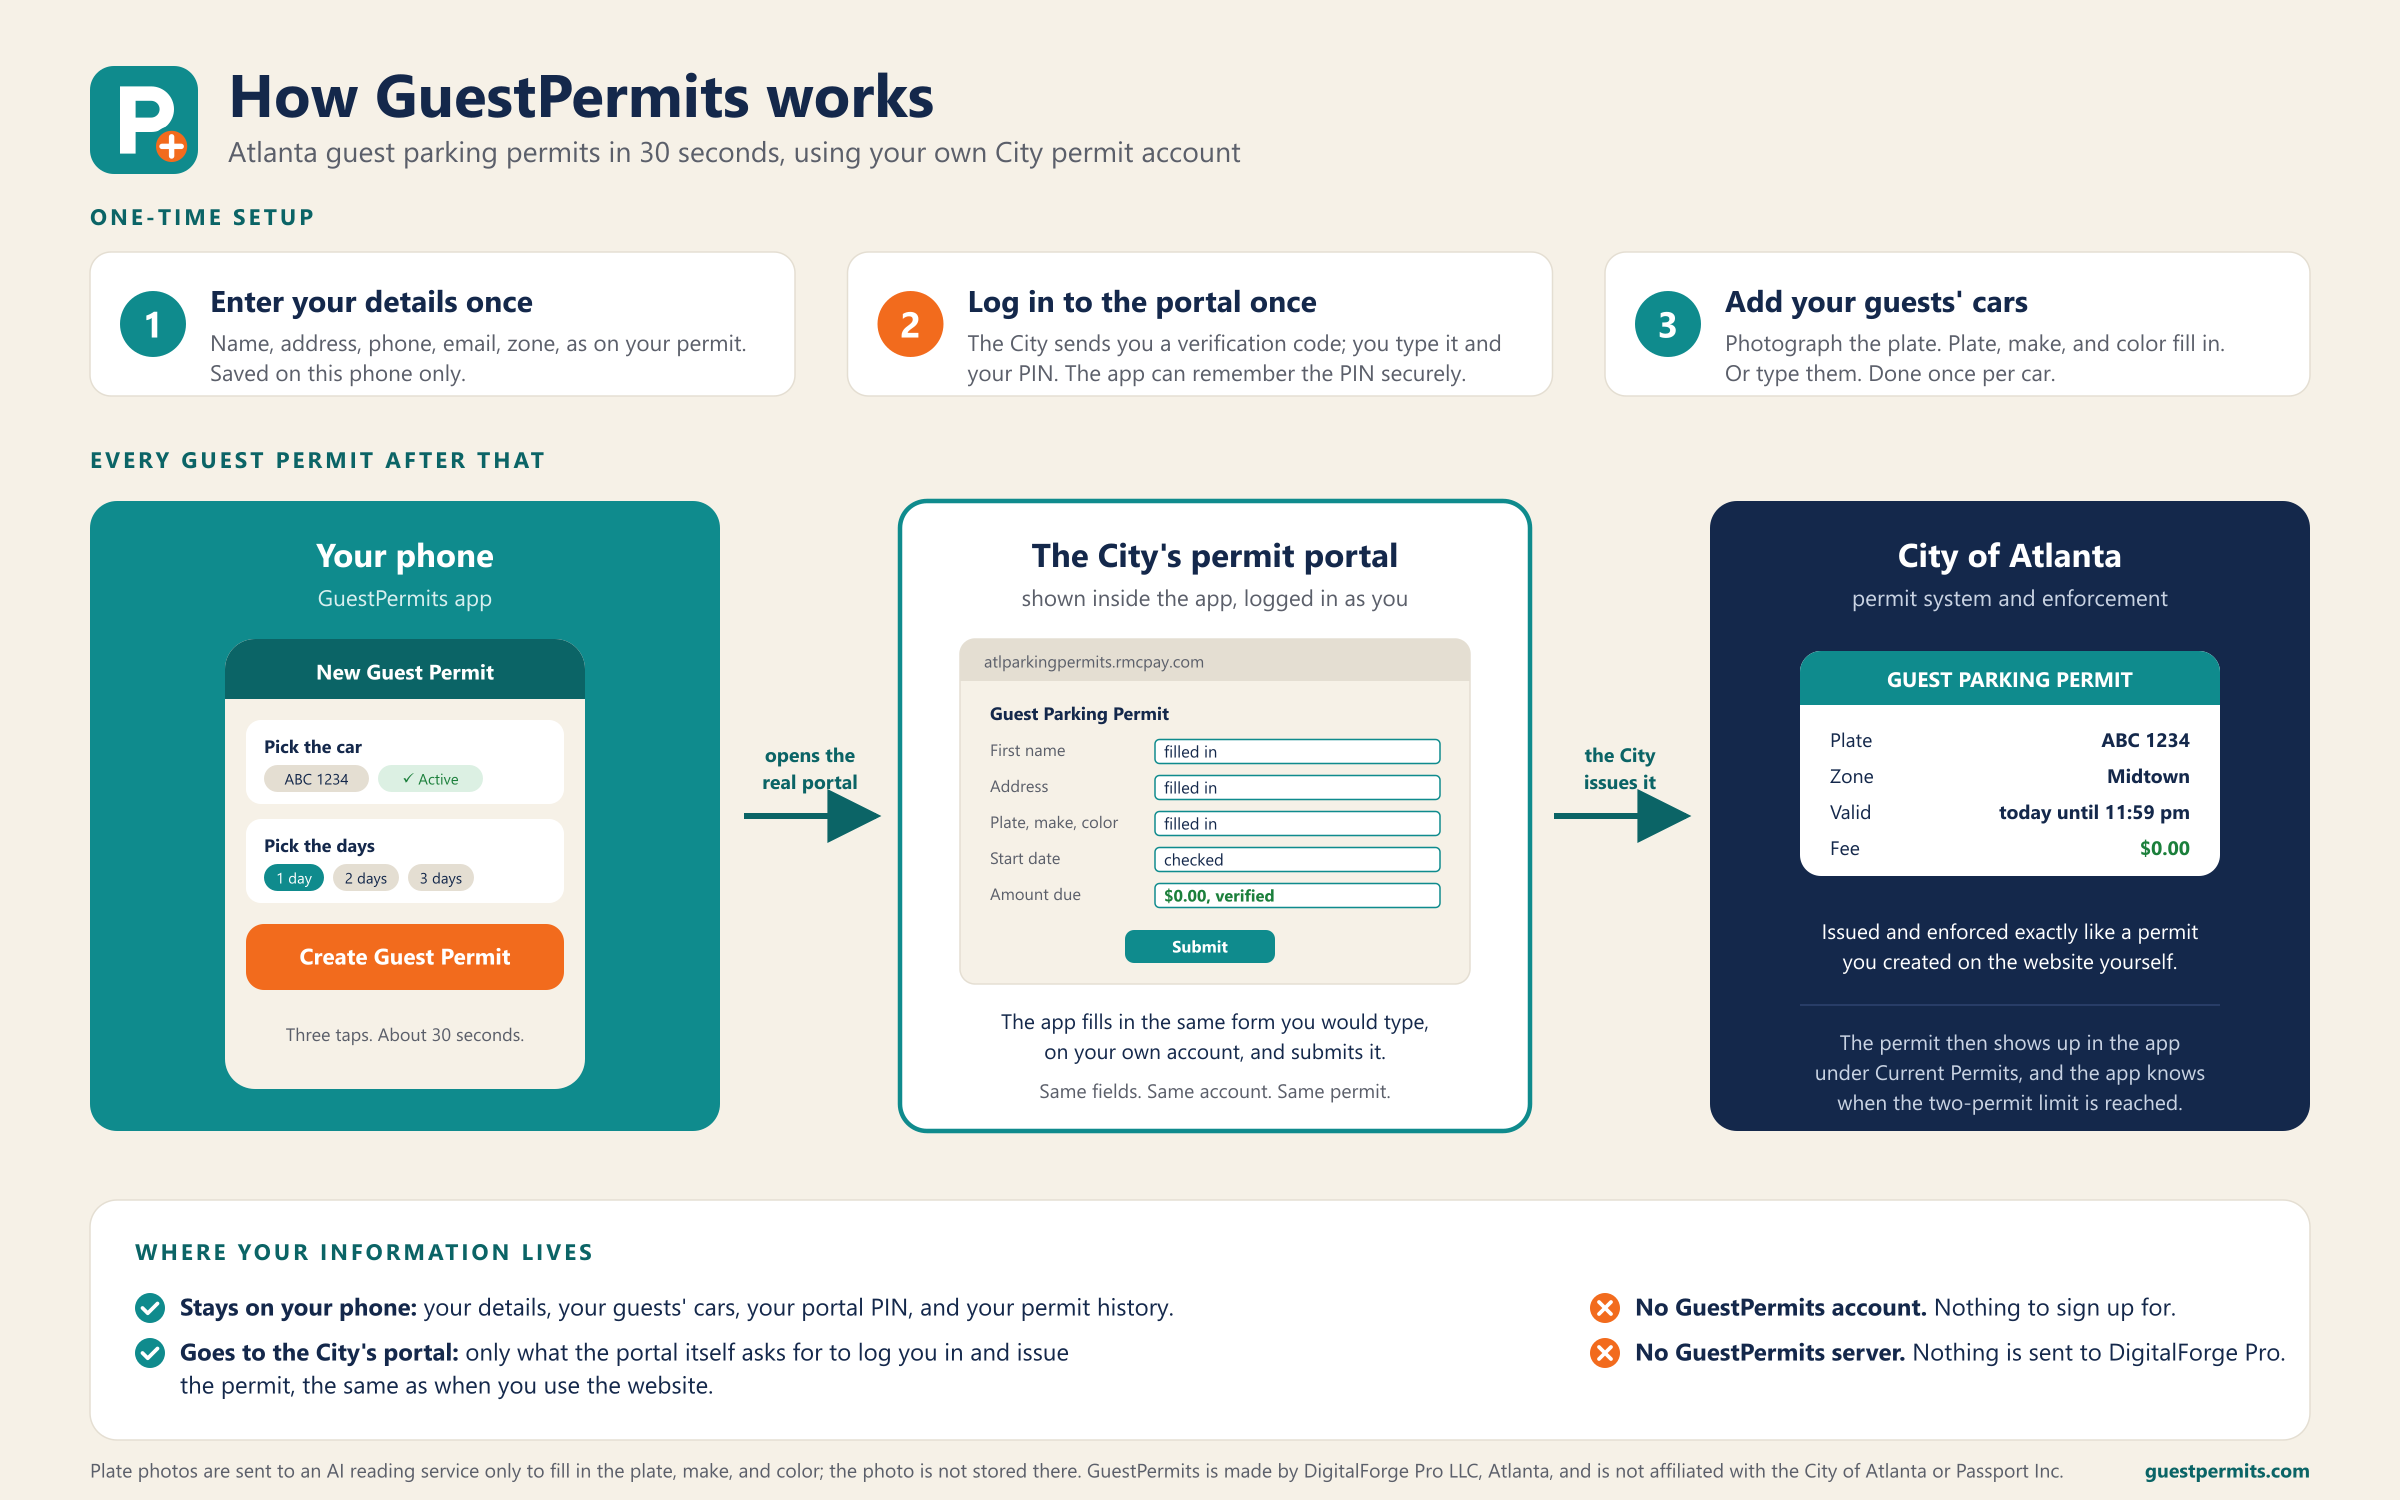
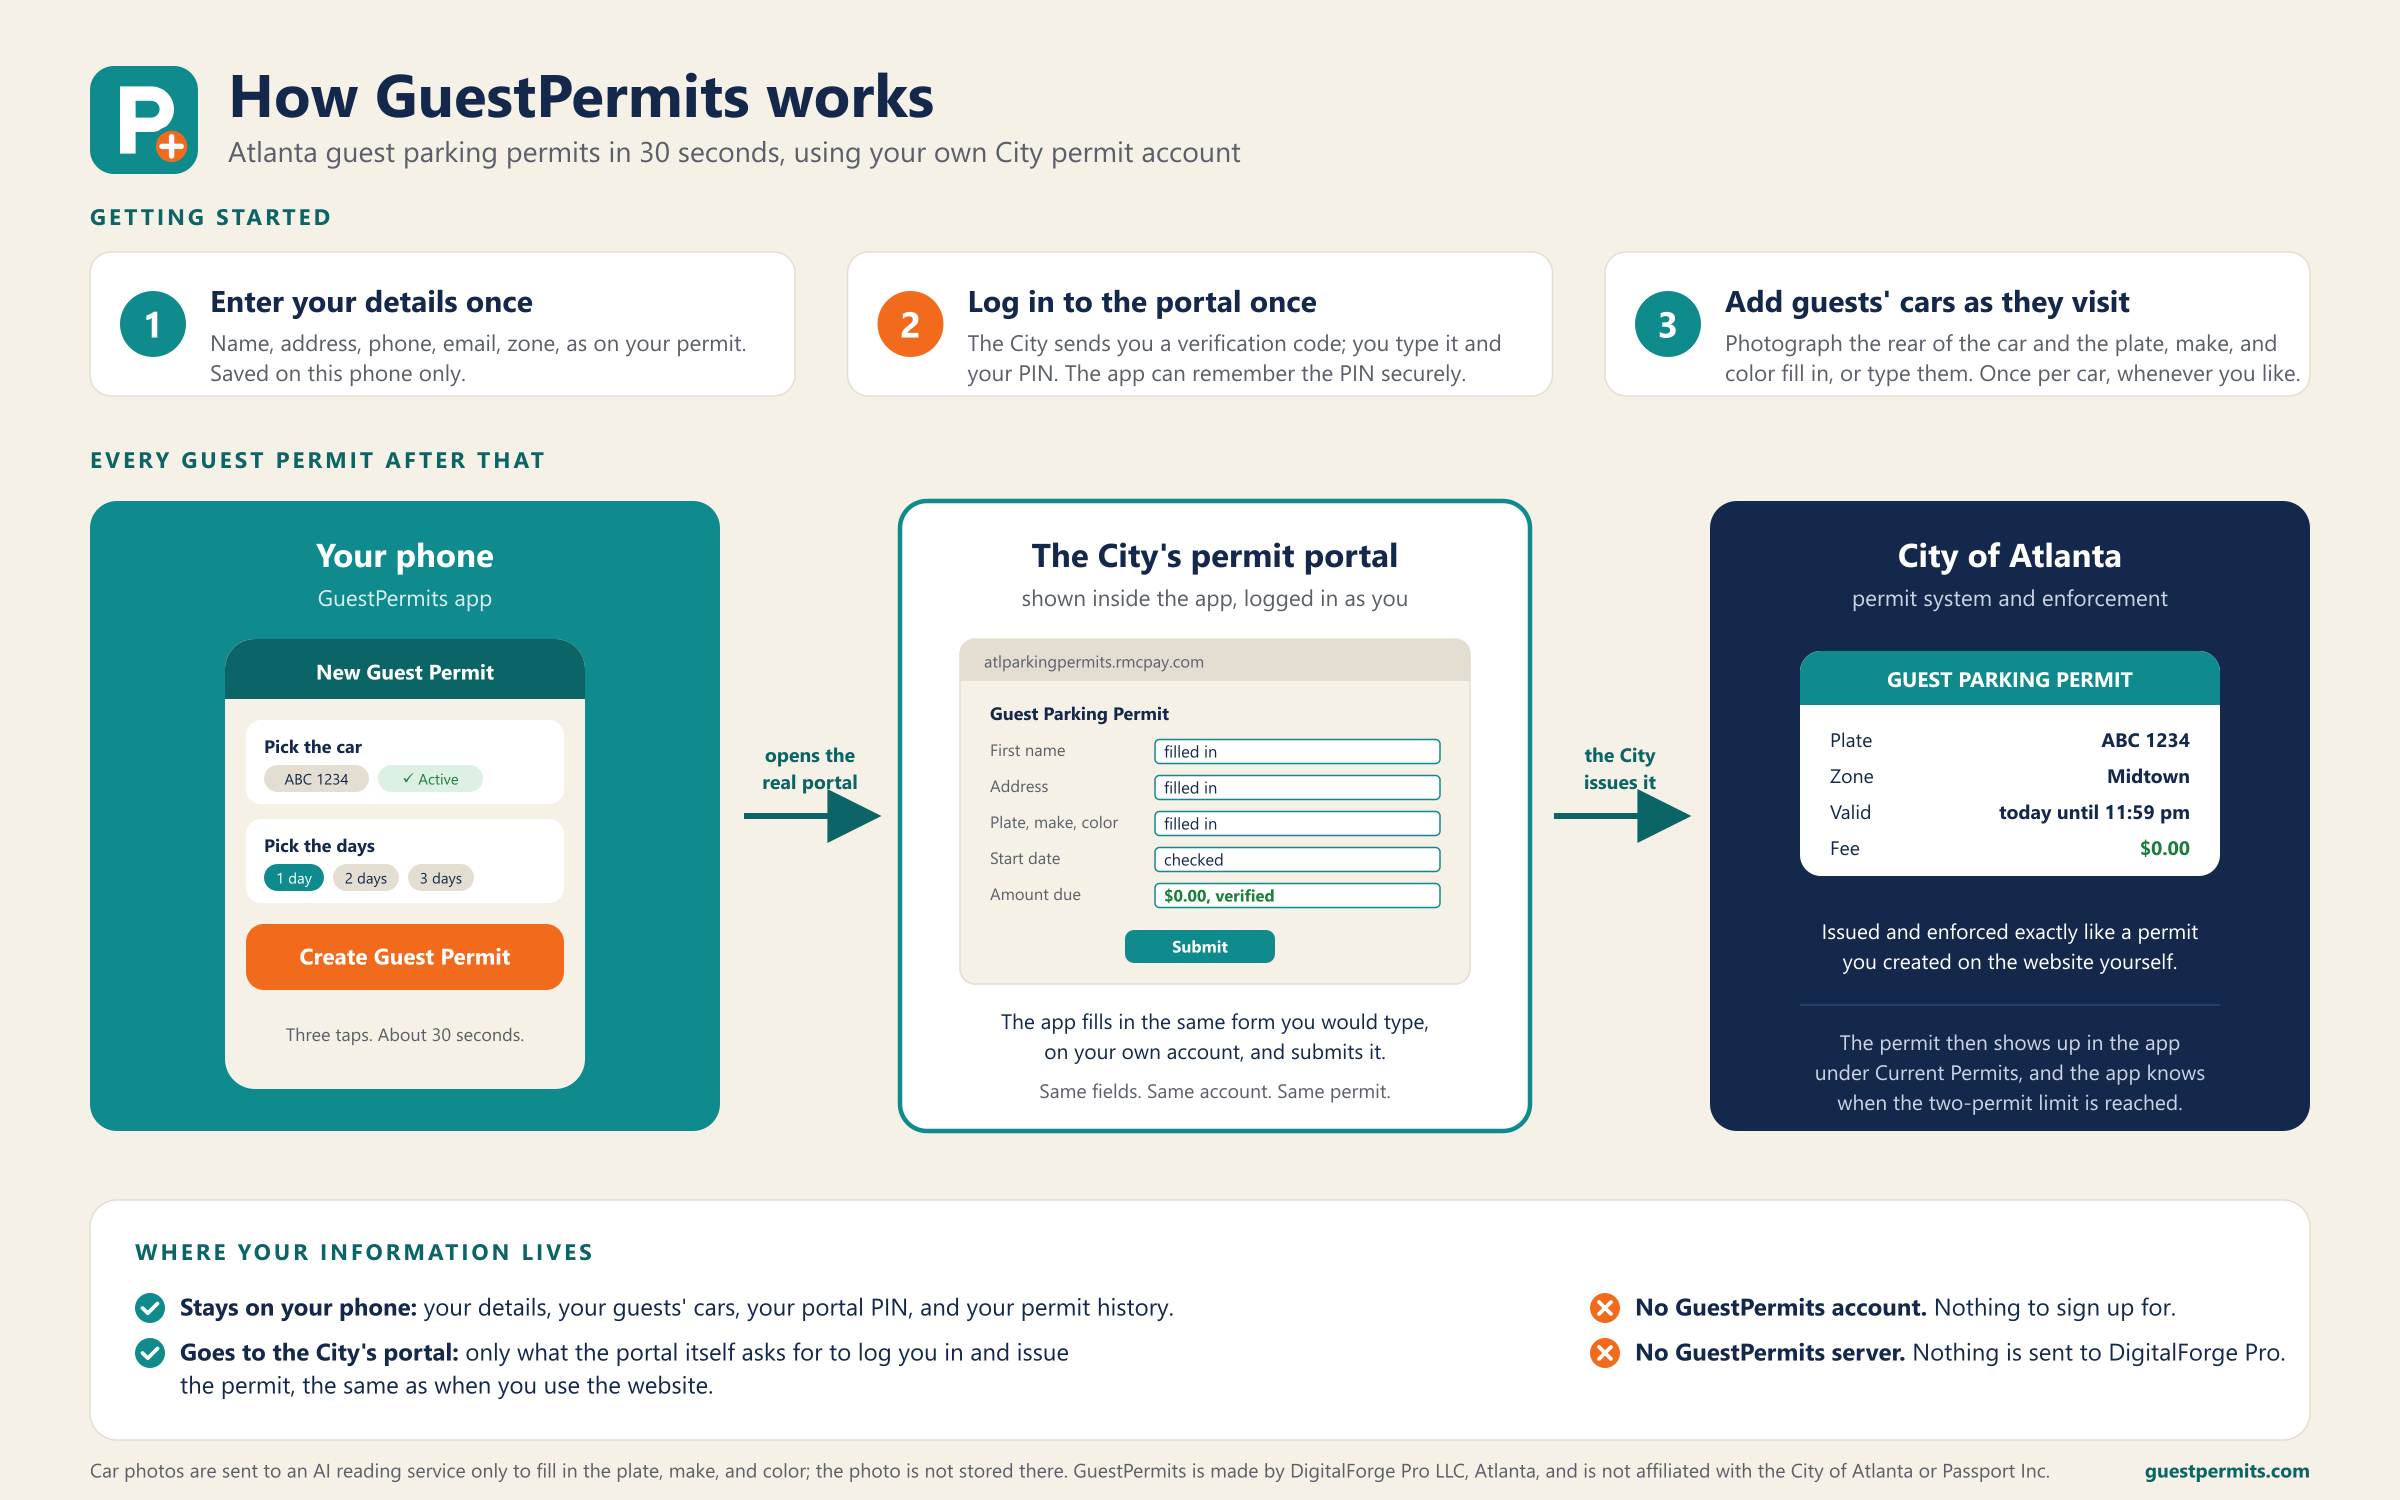
Rear-of-car photos; adding cars is not part of setup

Changed region(s): [[0.0312, 0.9507, 0.8438, 1.0], [0.7188, 0.184, 0.9375, 0.276], [0.0312, 0.1227, 0.125, 0.1533]]

diff --git a/index.html b/index.html
@@ -38,11 +38,12 @@
 
   <h2>How it works</h2>
   <figure class="diagram">
-    <a href="assets/how-it-works.png" target="_blank" rel="noopener" title="Open full size"><img src="assets/how-it-works.svg" alt="Diagram: one-time setup (enter your details, log in to the portal once, add your guests' cars), then for every permit the app opens the City's real portal inside the app, fills in the same form on your account, and the City issues the permit. Your information stays on your phone; there is no GuestPermits account or server." width="1600" height="1000"></a>
+    <a href="assets/how-it-works.png" target="_blank" rel="noopener" title="Open full size"><img src="assets/how-it-works.svg" alt="Diagram: getting started (enter your details, log in to the portal once, add guests' cars as they visit), then for every permit the app opens the City's real portal inside the app, fills in the same form on your account, and the City issues the permit. Your information stays on your phone; there is no GuestPermits account or server." width="1600" height="1000"></a>
     <figcaption>Tap the diagram to open it full size.</figcaption>
   </figure>
   <div class="card">
-    <p><strong>Set up once.</strong> Enter your details as they appear on your residential permit. Save each guest's vehicle with a name you'll recognize, like "Mom" or "Aunt Judy". Snap a photo of the plate and the app reads the plate, make, model, and color.</p>
+    <p><strong>Set up once.</strong> Enter your details as they appear on your residential permit. That's the only setup.</p>
+    <p><strong>Add cars as guests visit.</strong> Save each guest's vehicle with a name you'll recognize, like "Mom" or "Aunt Judy". Snap a photo of the rear of the car and the app reads the plate, make, model, and color, or type them in.</p>
     <p><strong>Every visit.</strong> Pick the vehicle, the zone, and how many days. Tap Create. GuestPermits opens the City's permit portal, logs in as you, fills in the form, checks that the permit is free, and submits it. You see the confirmation with the permit's dates.</p>
     <p style="margin-bottom:0"><strong>Your data stays with you.</strong> There is no account to create with us and no server holding your information. Everything is stored on your phone. <a href="privacy.html">Read the privacy policy.</a></p>
   </div>
